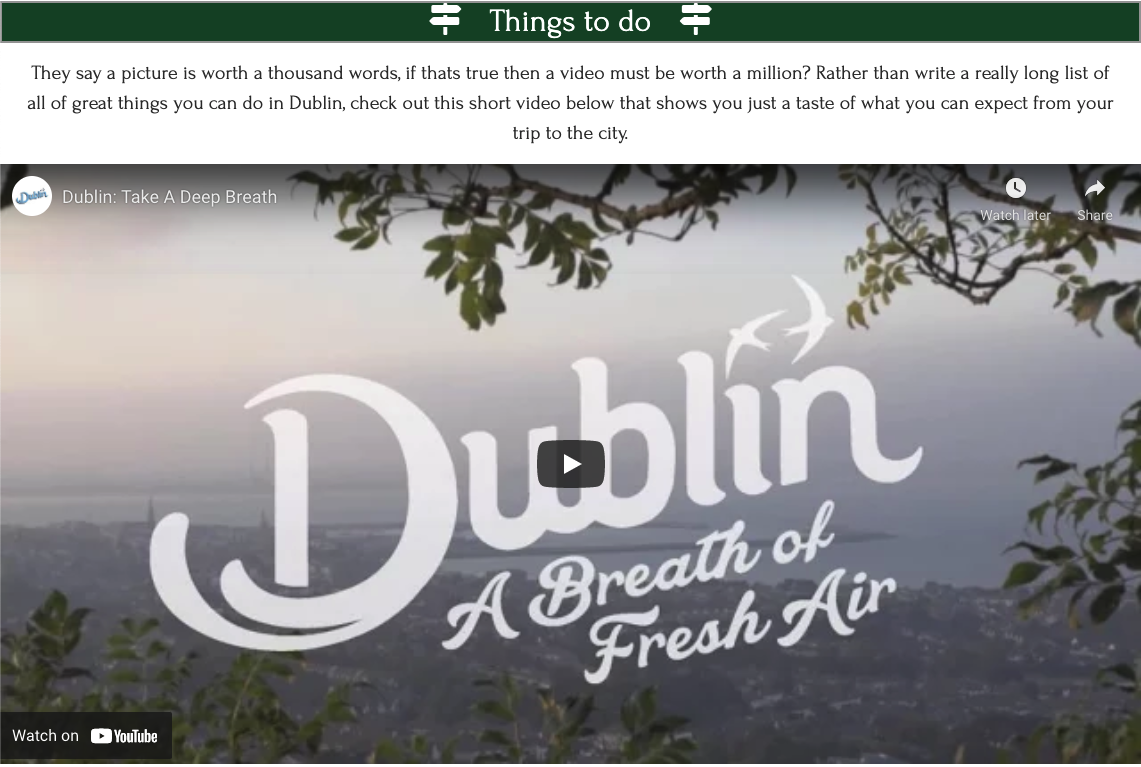
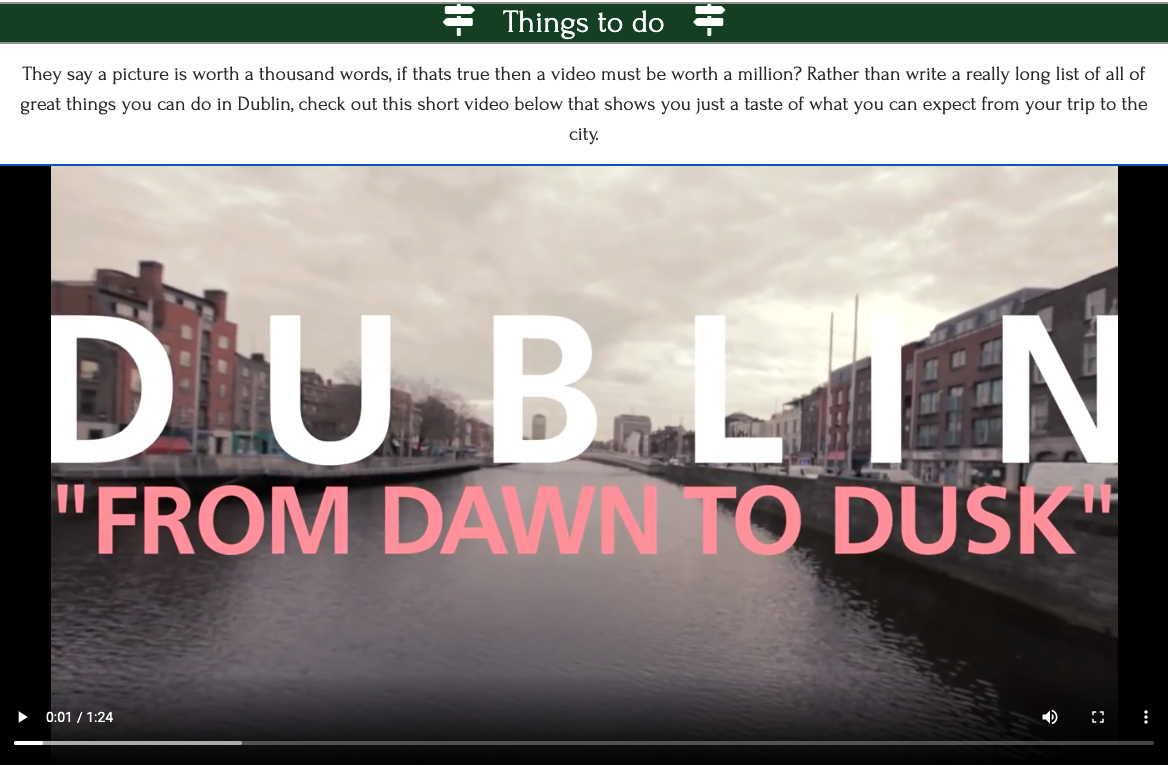
Have updated the readme file to relect the removal of the YouTube player and replaxed it with the Video JS player

diff --git a/README2.MD b/README2.MD
@@ -9,11 +9,11 @@ Each city page has the same structure so users will be familiar with the layout 
 
 **ADDITIONAL FEATURES** 
 
-Some of the additional features i added were:
+I also wanted users to the site to be able to price flights, view and book accommodation, restaurants, and tourist attractions. Some additional features i added were:
 
-1. A weather widget at the top of each page that gives a live 7 day forecast of the weather in each city.
-2. A Skyscanner widget that is preset to the nearest airport of each city. Users only need to enter their airport of origin and the dates they wish to travel and Skyscanner will provide them with a list of available flights. At the time of completing this project (April 2021)the Skyscanner widget is also incorporating a Covid-19 travel advice link as this information is also very important to any traveller wishing to book a flight on an airplane. 
-3. At the bottom of each page i have added a contact form that is powered by Email JS. When a user submits a message to the site i as the site owner will receive an email notification. The user will also receive an automated email reply confirming there message has been received and that we will be contacting them shortly to answer their enquiry. 
+1. A weather widget at the top of each page that gives a live 7 day forecast of the weather in each city. The weather in Ireland changes regularly and we often have 4 season in a day. This little feature will allow any user to check the next 7 days weather at a glance. 
+2. A Skyscanner widget that is already preset to the nearest airport of each city. Users only need to enter their airport of origin and the dates they wish to travel and Skyscanner will provide them with a list of available flights. At the time of completing this project (April 2021)the Skyscanner widget is also incorporating a Covid-19 travel advice link as this information is also very important to any traveller wishing to book a flight on an airplane. 
+3. Finally at the bottom of each page i have added a contact form that is powered by Email JS. When a user submits a message to the site i as the site owner will receive an email notification. The user will also receive an automated email reply confirming there message has been received and that we will be contacting them shortly to answer their enquiry. 
 
 ![Image of the homepage on multiple devices](assets/readme-images/introduction-image.png)
 > 
@@ -31,7 +31,7 @@ Some of the additional features i added were:
 * 2.2 JavaScript weather widget 
 * 2.3 Photo Carousel 
 * 2.4 SkyScanner JavaScript Widget 
-* 2.5 YouTube API videos 
+* 2.5 Video JS Player 
 * 2.6 Google Maps API 
 * 2.7 Contact Us Forum
 * 2.3 The Footer
@@ -48,7 +48,7 @@ Some of the additional features i added were:
 * 3.9 Balsamiq
 * 3.10 Weather Widget API
 * 3.11 Skyscanner JavaScript Widget
-* 3.12 YouTube API
+* 3.12 Video JS
 * 3.13 Google Maps API
 * 3.14 Email JS 
 * 3.15 Favicon Generator 
@@ -133,7 +133,7 @@ After the user presses search flights as expected i can see i am brought to the 
 
 ![Image of Skyscanner page user is diverted too](assets/readme-images/dublin-user-stories-6.png)
 
-The user is wondering what can they and their friends do in Dublin. They can see that rather than have to read through a load of text there is a short video on the city that they can watch. The video is hosted on on a YouTube player which the majority of users will be very familiar with. The user can also see the video is only 1 minute and 24 seconds long, great, its nice and short so the user can watch all of it without getting board or distracted easily. 
+The user is wondering what can they and their friends do in Dublin. They can see that rather than have to read through endless lines of text there is a short video on the city that they can watch. The video is hosted on a simple Video JS player with basic controls which the majority of users will be very familiar with (No need ot over complicate things with lots of controls). The videos are all around 1 and a half minutes long, great, its nice and short so the user can watch all of it without getting board or distracted. 
 
 ![Image of the things to do video section](assets/readme-images/dublin-user-stories-7.png)
 
@@ -175,7 +175,7 @@ The user will look at these options with their friends before booking their trip
 
 ### **1.4 - Design Choices** ###
 
-* I wanted the website to be very visual and not just a lot of text. Therefore I have incorporated a lot of imagery on each page, inserted weather and flights widgets, YouTube videos and google maps with places/location markers for each map. 
+* I wanted the website to be very visual and not just a lot of text. Therefore I have incorporated a lot of imagery on each page, inserted weather and flights widgets, videos and google maps with places/location markers for each map. 
 
 **FONTS**
 
@@ -258,15 +258,15 @@ I wanted to use some great images on the website. To achieve this i have used a 
 
 ### **2.4 - SkyScanner JavaScript Widget** ###
 
-I have also installed a Skyscanner widget on the website. This will allow users of the site to enter the city they are flying from, the dates they are looking to fly, and when the click on search flights Skyscanner will give them flight availability and prices. As the site isnt an integrated partner booking a flight on the site isnt possible, instead the user is diverted to the Skyscanner page.
+I have also installed a Skyscanner widget on the website. This will allow users of the site to enter the city they are flying from, the dates they are looking to fly, and when the click on search flights Skyscanner will give them flight availability and prices. As the site isn't an integrated partner booking a flight on the site isn't possible, instead the user is diverted to the Skyscanner page.
 
 ![Image of Photo Carousel](assets/readme-images/skyscanner-widget.png)
 
-### **2.5 - YouTube API videos** ###
+### **2.5 - Video JS** ###
 
-I wanted to use as wide a range of options as possible to display information to users. On every city page i have created a YouTube video that gives a very short introduction about each city. This was done using the YouTube API. 
+I wanted to use as wide a range of options as possible to display information to users. People engage with video a lot more than they do with just pages and pages of text. Because of this on every city page i have created a video player that will play a short video from the local tourist board that will show users some of the tings they can expect to see/do in each city.
 
-![Image of YouTube video](assets/readme-images/youtube.png)
+![Image of video player](assets/readme-images/city-video.png)
 
 ### **2.6 - Google Maps API** ###
 
@@ -304,11 +304,9 @@ In the footer i have listed all of the companies social media links. As with the
 * 3.9 - [Balsamiq](https://balsamiq.com/) - Balsamiq Wireframes is a rapid low-fidelity UI wireframing tool that reproduces the experience of sketching on a notepad or whiteboard.<br>
 * 3.10 - [Weather Widget](https://weatherwidget.io/) - Is a free customizable weather widget that you incorporate into your website using JavaScript and HTML.<br>
 * 3.11 - [Skyscanner JavaScript Widget](https://www.partners.skyscanner.net/affiliates/widgets-documentation/simple-flight-search-widget) Skyscanner is a travel fare aggregator website and travel metasearch engine. Site visitors can use Skyscanner to plan and book their travels, including flights, hotels, and car hire, at the best prices.<br>
-* 3.12 - [YouTube](https://www.youtube.com/) - YouTube is an American online video-sharing platform and the second largest search engine in the world. Created in February 2005 by three former PayPal employees YouTube was bought by Google 2006<br>
-
+* 3.12 - [VideoJs](https://videojs.com/) - Video. js is a web video player built from the ground up for an HTML5 world. It supports HTML5 video and modern streaming formats, as well as YouTube, Vimeo, and even Flash (through plugins, more on that later). It supports video playback on desktop and mobile devices.<br>
 * 3.13 - [Google Maps API](https://developers.google.com/maps/documentation/javascript/overview) - The Google Maps Platform is a set of APIs and SDKs that allows developers to embed Google Maps into mobile apps and web pages, or to retrieve data from Google Maps.
 <br>
-
 * 3.14 - [Email JS](https://www.emailjs.com/) - EmailJS helps to send emails using client-side technologies only. No server is required, just connect EmailJS to one of the supported email services, create an email template, and use our Javascript library to trigger an email.
 
 * 3.15 - [Favicon](https://favicon.io/favicon-generator/) - A free and simple website that allows you to create, build and customize your Favicons for your own site. 
@@ -414,7 +412,7 @@ Photo by <a href="https://unsplash.com/@alexblock?utm_source=unsplash&utm_medium
 
 THINGS TO DO DUBLIN VIDEO
 
-* Dublin: Take A Deep Breath Youtube Video<br>
+* Dublin: Dawn to Dusk Video<br>
 All rights belong to Visit Dublin
 
 OUR RECOMMENDATIONS DUBLIN
@@ -463,8 +461,8 @@ Photo by <a href="https://unsplash.com/@imjamie?utm_source=unsplash&utm_medium=r
   
 THINGS TO DO CORK VIDEO
 
-* PureCork: Cork Awaits Youtube Video<br>
-All rights belong to Pure Cork Visit
+* PureCork: Cork Welcomes Video<br>
+All rights belong to Pure Cork
 
 OUR RECOMMENDATIONS CORK
 
@@ -517,7 +515,7 @@ Photo by <a href="https://unsplash.com/@olivier_twwli?utm_source=unsplash&utm_me
   
 THINGS TO DO GALWAY VIDEO
 
-* Discover Ireland: Top Things To Do In Cork Youtube Video<br>
+* Discover Ireland: Top Things To Do In Galway Video<br>
 All rights belong to Discover Ireland
 
 OUR RECOMMENDATIONS GALWAY 
@@ -551,11 +549,10 @@ All Unsplash images are provided under licence that allows free use of them once
 ### **6.2 Code** ###
 
 * The majority of the code i used was Bootstrap version 4.6. The official Bootstrap documentation is the best place to reference for everything you need: [Bootstrap Documentation Here](https://getbootstrap.com/docs/4.6/getting-started/introduction/)
-* For the YouTube API i resourced the official Google documentation [YouTube Official Documentation Here](https://developers.google.com/youtube/iframe_api_reference)
+* For the Video JS player i resourced the official documentation [Video JS Official Documentation Here](https://docs.videojs.com/)
 * For the Google map i used the Google maps [Javascript API official documentation](https://developers.google.com/maps/documentation/javascript/overview) and also the Google maps [Places API official documentation](https://developers.google.com/maps/documentation/places/web-service/overview)
 * For the Email JS feature i referenced the official [Email JS documentation here](https://www.emailjs.com/docs/)
 * To achieve the smooth scrolling effect on the page when you click on an item in the Navbar i followed the tutorial on YouTube by Kevin Powell. The link to the tutorial can be found here: [Smooth scrolling tutorial](https://www.youtube.com/watch?v=x0YnVwAuNQI)
-
 
 ### **6.3 Acknowledgements** ###
 
